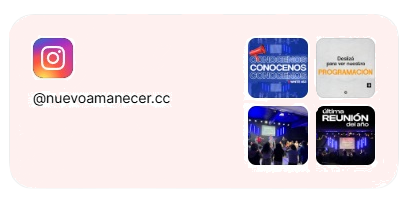
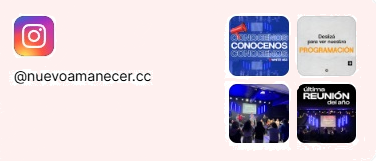
cambio2

Changed region(s): [[0.5851, 0.0932, 0.9654, 0.9006], [0.0293, 0.0932, 0.1755, 0.4037], [0.0293, 0.4348, 0.4096, 0.528]]

diff --git a/styles.css b/styles.css
@@ -6,7 +6,7 @@ body {
   display: flex;
   flex-direction: column;
   min-height: 100vh;
-  background-color: #ffffff;
+  background-color: #c4cef1;
   color: #000000;
 }
 
@@ -30,7 +30,7 @@ nav ul {
   margin: 20px 0 0;
 }
 
-/* Estilos actualizados para la navegación */
+/*#region Estilos actualizados para la navegación */
 nav {
   background-color: #e6f3ff; /* Fondo azul pastel claro */
   padding: 10px 0;
@@ -81,7 +81,7 @@ nav ul li a:hover {
   }
 }
 
-
+/*#endregion*/
 main {
   flex: 1;
   padding: 20px;
@@ -111,12 +111,18 @@ main {
 .youtube-container,
 .instagram-container {
   position: relative;
-  width: 100%;
-  max-width: 400px;
-  height: 250px;
+  display: inline-block; /* Cambiado para ajustar al tamaño de la imagen */
+  width: auto; /* El contenedor toma el ancho de la imagen */
+  height: auto; /* El contenedor toma la altura de la imagen */
   overflow: hidden;
   border-radius: 10px;
   box-shadow: 0 4px 6px rgba(0, 0, 0, 0.1);
+}
+
+.youtube-container img,
+.instagram-container img {
+  width: 100%; /* La imagen ocupa todo el espacio del contenedor */
+  height: auto; /* Mantiene la proporción de la imagen */
 }
 
 .youtube-container::before,
@@ -127,18 +133,10 @@ main {
   left: 0;
   right: 0;
   bottom: 0;
-  background-size:contain ;
+  background-size: cover;
   background-position: center;
   background-repeat: no-repeat;
   transition: transform 0.3s ease;
-}
-
-.youtube-container::before {
-  background-image: url("img/youtube-photo.png");
-}
-
-.instagram-container::before {
-  background-image: url("img/insta-Photoroom.png");
 }
 
 .youtube-container:hover::before,
@@ -154,12 +152,10 @@ main {
   z-index: 2;
 }
 
-
-.follow-button a
-{
+.follow-button a,
+.subscribe-button a {
   display: inline-block;
   padding: 10px 20px;
-  background-color: rgba(74, 142, 243, 0.9);
   color: #333;
   text-decoration: none;
   border-radius: 5px;
@@ -167,17 +163,12 @@ main {
   transition: background-color 0.3s ease, color 0.3s ease;
 }
 
+.follow-button a {
+  background-color: rgba(74, 142, 243, 0.9);
+}
 
-.subscribe-button a
- {
-  display: inline-block;
-  padding: 10px 20px;
+.subscribe-button a {
   background-color: rgba(255, 86, 86, 0.9);
-  color: #333;
-  text-decoration: none;
-  border-radius: 5px;
-  font-weight: bold;
-  transition: background-color 0.3s ease, color 0.3s ease;
 }
 
 .subscribe-button a:hover,
@@ -195,10 +186,10 @@ main {
 
   .youtube-container,
   .instagram-container {
-    width: 100%;
-    max-width: 100%;
+    width: 100%; /* Asegura que el contenedor ocupe todo el ancho disponible */
   }
 }
+
 
 
 

diff --git a/index.html b/index.html
@@ -51,13 +51,13 @@
             <h2>Nuestras Redes</h2>
             <div class="social-grid">
                 <div class="youtube-container">
-                    
+                    <img src="img/insta-Photoroom.png">
                     <div class="subscribe-button">
                         <a href="https://www.youtube.com/@MediosNuevoAmanecer" target="_blank">Subscribe</a>
                     </div>
                 </div>
                 <div class="instagram-container">
-                   
+                   <img src="img/youtube-photo.png">
                     <div class="follow-button">
                         <a href="https://www.instagram.com/nuevoamanecer.cc" target="_blank">Follow</a>
                     </div>
